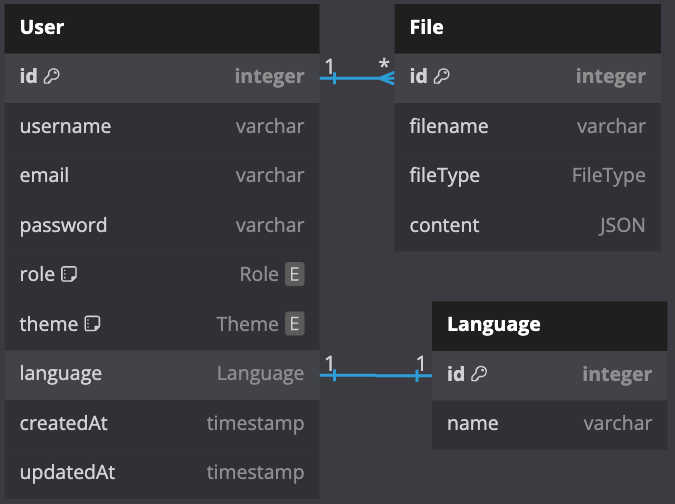
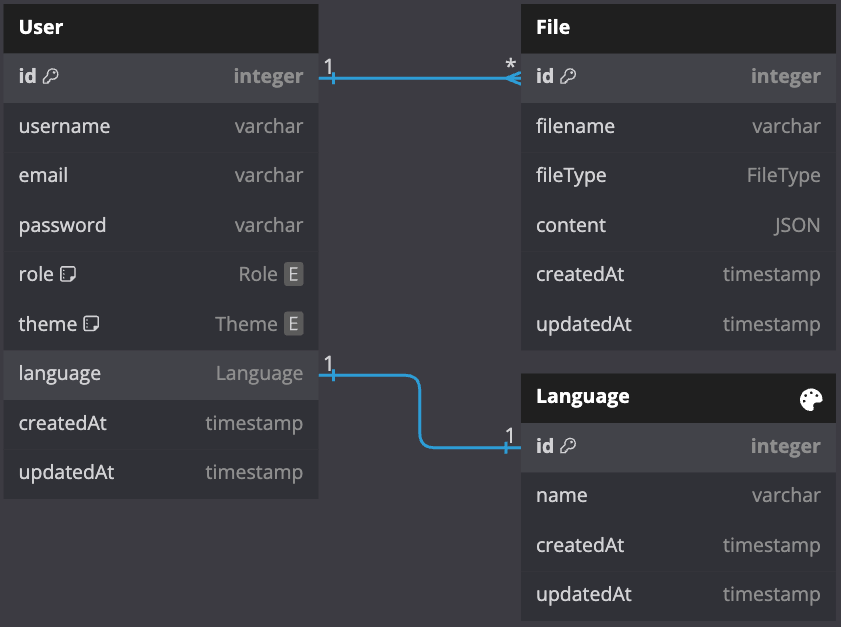
Figma Designs (#4)
chore(docs): update README
chore(setup): update ERD with timestamps
chore(designs): upload designs

diff --git a/README.md b/README.md
@@ -17,13 +17,13 @@ Document your development progress during each day using your git commit history
 ## Feature Requirements
 We would like you to create and deploy a NextJS application that contains the following features:
 - [] A user system comprising three roles: `admin`, `user`, and `participant`.
-- [] A user can sign up for an account with using the `Github OAuth` provider (GUI). Default role is `participant`.
+- [] A user can sign up for an account using the `Github OAuth` provider (GUI). Default role is `participant`.
 - [] A user can login to their account using the `Github OAuth` provider (GUI).
 - [] A user can change their role to any other; changes should be reflected on the GUI.
 - [] Add a page to allow uploading JSON file that is only visible to authenticated users with role `admin`. The uploaded file should be added to a SQLite DB using Prisma.
 - [] Add a page to all authenticated users to display all the uploaded JSON files and download any of them.
 - [] Add an API route handler at the URL `/api/admin` accessible to only authenticated users with `admin` role  that returns a list of all users on the system.
-- [] Add an API route handler at the URL `/api/public` accessible to both authenticated and unauthenticated users that returns the most recently uploaded JSON. 
+- [] Add an API route handler at the URL `/api/public` accessible to both authenticated and unauthenticated users that returns the most recently uploaded JSON.
 - [] Implement language localisation for all pages. Implement English as a minimum, and optionally use either your own second language or Google Translate to add an additional language of your choice.
 - [] Have the app default to the user’s language, but have the language be selectable via a UI element.
 - [] Style any pages/UI you create using Tailwind, including light and dark mode support. Light and dark mode should be togglable from a UI element.
